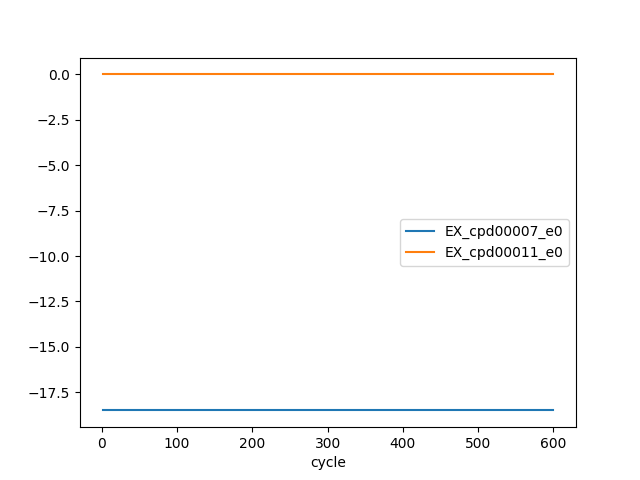
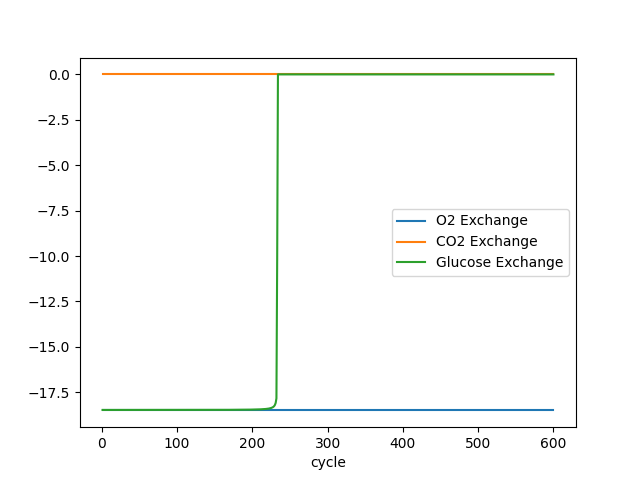
Clean up the biomass and flux plots

diff --git a/alt_core/plot_results.py b/alt_core/plot_results.py
@@ -37,6 +37,9 @@ with open('alt_core/results.pkl', 'rb') as f:
 ax = experiment.total_biomass.plot(x = 'cycle')
 ax.set_ylabel("Biomass (gr.)")
 
+# Remove the legend since there is only one species (and there is no ID)
+ax.get_legend().remove()
+
 # Save the biomass plot
 plt.savefig(os.path.join(output_folder, 'biomass.png'))
 
@@ -47,9 +50,11 @@ plt.savefig(os.path.join(output_folder, 'biomass.png'))
 # The model doesn't have a name, it is just called ''
 experiment.fluxes_by_species[''].plot(x="cycle",
                                       y=["EX_cpd00007_e0", # Exchange for O2_e0
-                                         "EX_cpd00011_e0"], # Exchange for CO2_e0
+                                         "EX_cpd00011_e0", # Exchange for CO2_e0
+                                         "EX_cpd00027_e0"], # Exchange for G-glucose
                                       kind="line")
-
+# Make a more human-friendly legend
+plt.legend(('O2 Exchange', 'CO2 Exchange', 'Glucose Exchange'))
 # Save the biomass plot
 plt.savefig(os.path.join(output_folder, 'fluxes.png'))
 
